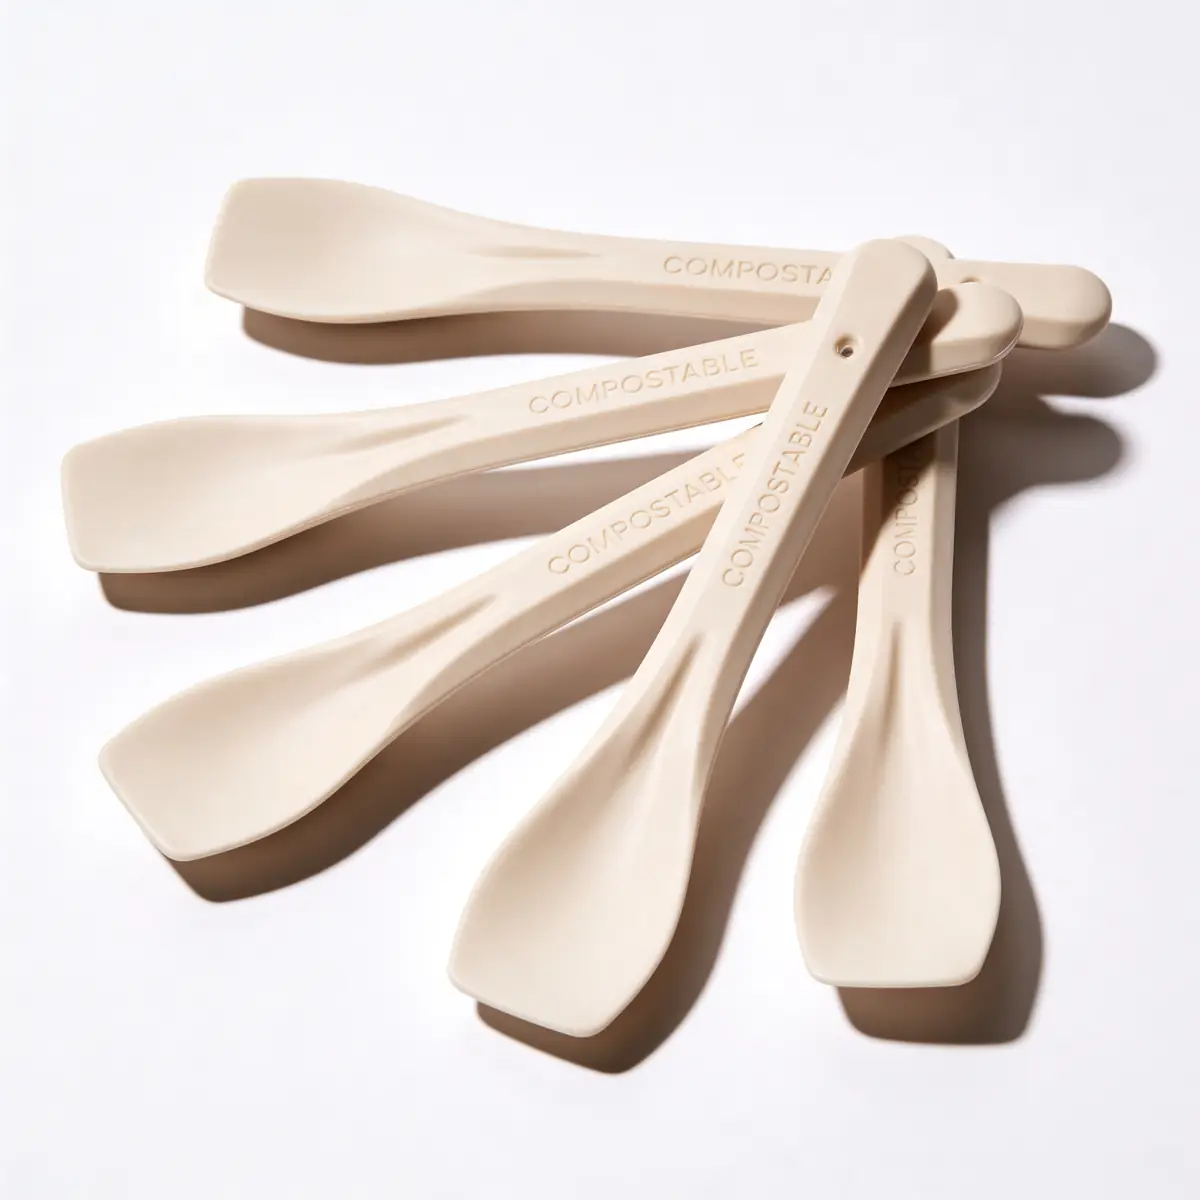
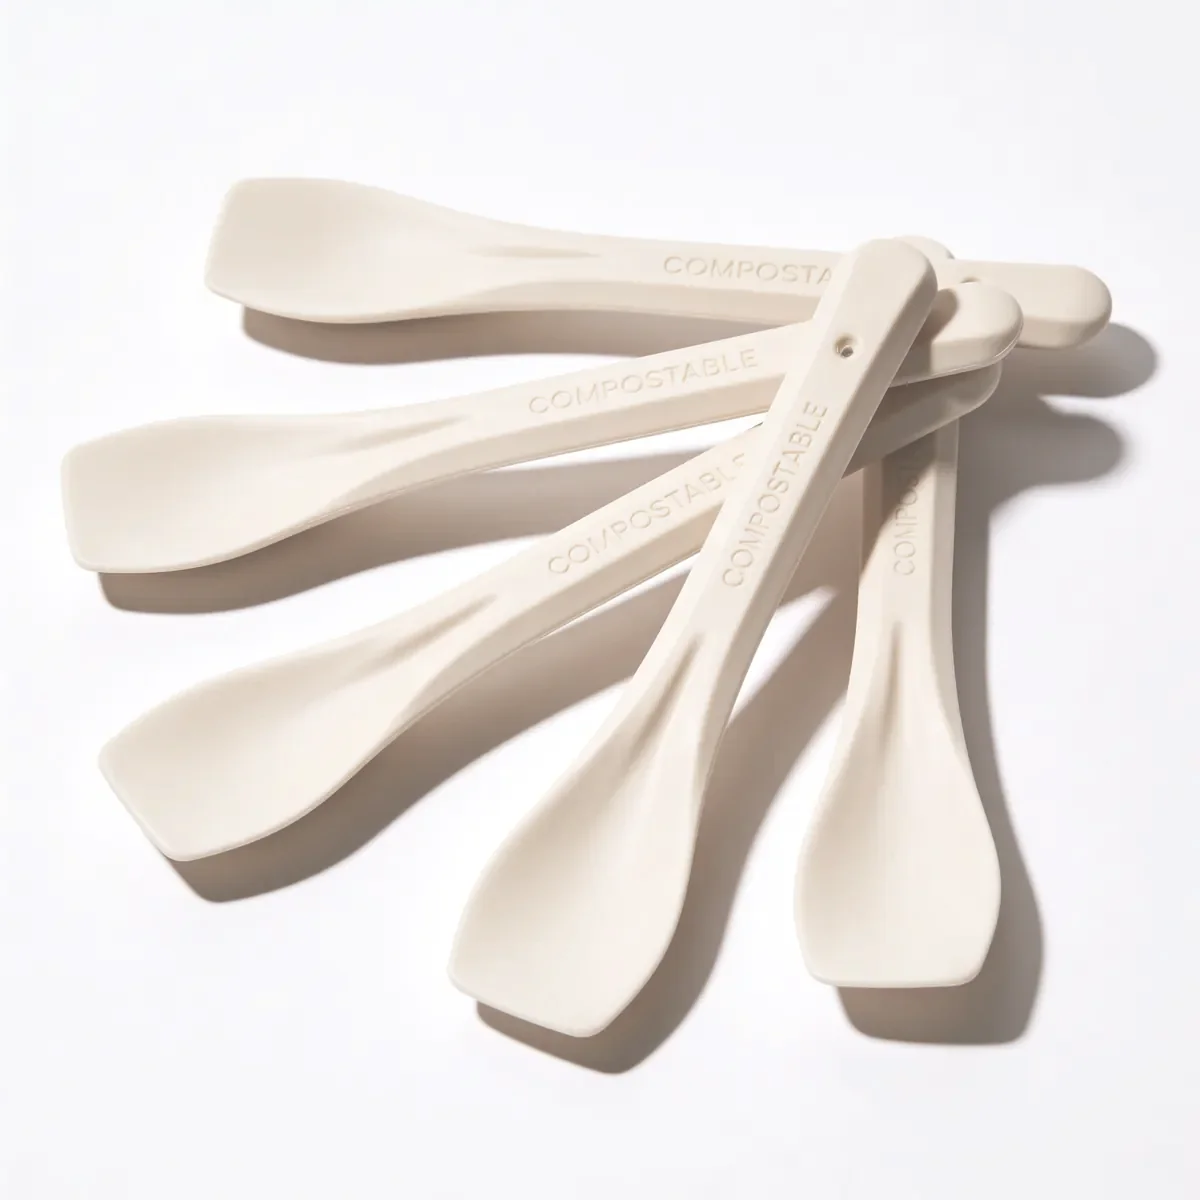
ok

Changed region(s): [[0.0617, 0.2158, 0.9867, 0.8942], [0.185, 0.2467, 0.6475, 0.3083]]

diff --git a/index.html b/index.html
@@ -33,10 +33,7 @@
   <link rel="alternate" hreflang="x-default" href="https://www.badiani1932.com/" />
 
   <!-- Preload critical font -->
-  <link rel="preload" href="assets/fonts/SuperGroteskB-CdMed.woff" as="font" type="font/woff" crossorigin />
-  <!-- Preload Paolo + Worldwide images (prevents content-visibility + lazy double-delay) -->
-  <link rel="preload" href="assets/paolo%20pomposi.webp" as="image" type="image/webp" />
-  <link rel="preload" href="assets/worldwide.webp" as="image" type="image/webp" />
+  <link rel="preload" href="assets/fonts/SuperGroteskB-CdMed.woff2" as="font" type="font/woff2" crossorigin />
   <!-- Preload critical above-the-fold images -->
   <link rel="preload" as="image" href="assets/images/eventi/evento-esterno-2.webp" />
   <link rel="preload" as="image" href="assets/images/categories/vasche.webp" />
@@ -585,6 +582,9 @@
     .world-card--metrics .world-card__title{
       color:var(--badiani-blue);
       max-width:55%;
+      overflow-wrap:normal;
+      word-break:normal;
+      hyphens:none;
     }
     .world-card__desc{
       font-size:clamp(14px, 1.2vw, 17px);
@@ -775,7 +775,7 @@
       .world-card--metrics{ border-right:none; border-bottom:1px solid rgba(30,57,141,0.08); overflow:hidden; }
       .world-card__paolo{ height:126%; right:0; max-width:70%; }
       /* Full width text when cards are stacked */
-      .world-card--metrics .world-card__title{ max-width:100%; font-size:clamp(36px, 10.8vw, 168px); overflow-wrap:break-word; word-break:break-word; }
+      .world-card--metrics .world-card__title{ max-width:100%; }
       .world-card__desc{ max-width:100%; }
       .stats{ max-width:100%; grid-template-columns:1fr; }
       .stat:nth-child(odd){ border-right:none; }
@@ -1048,12 +1048,7 @@
       }
     }
 
-    /* Performance: content-visibility for off-screen sections */
-    .story-section,
-    .world-section {
-      content-visibility: auto;
-      contain-intrinsic-size: auto 600px;
-    }
+    /* content-visibility rimossa: causava pop-in visibile durante scroll */
     /* home-form-section esclusa per permettere overflow di Mercury */
 
     /* Reduced motion for users who prefer it */
@@ -1118,7 +1113,7 @@
   <section class="choice-section" data-i18n-attr="aria-label:home.choice.label">
     <div class="choice-grid">
       <a class="choice-card" href="eventi/" data-i18n-attr="aria-label:home.choice.eventi.aria">
-        <img class="choice-card__img" src="assets/images/migrated/eventi/foto%20eventi/Steve%20Madden%20Pitti/STEVE4.webp" alt="Eventi" loading="lazy" decoding="async" data-i18n-attr="alt:home.card.eventi.title" />
+        <img class="choice-card__img" src="assets/images/migrated/eventi/foto%20eventi/Steve%20Madden%20Pitti/STEVE4.webp" alt="Eventi" loading="lazy" decoding="async" width="3966" height="5949" data-i18n-attr="alt:home.card.eventi.title" />
         <div class="choice-card__overlay">
           <div class="choice-card__heading-group">
             <span class="choice-card__label" data-i18n="home.choice.eventi.label">Tipologie</span>
@@ -1170,7 +1165,7 @@
     <div class="world-grid">
       <!-- LEFT: Metrics -->
       <div class="world-card world-card--metrics">
-        <img class="world-card__paolo" src="assets/paolo%20pomposi.webp" alt="Paolo Pomposi" loading="eager" decoding="async" fetchpriority="high" width="1000" height="1405" />
+        <img class="world-card__paolo" src="assets/paolo%20pomposi.webp" alt="Paolo Pomposi" loading="lazy" decoding="async" width="1000" height="1405" />
         <span class="world-card__label" data-i18n="heritage.stat.quality">Qualità Italiana</span>
         <h2 class="world-card__title title-accent" data-i18n="heritage.title">BADIANI NEL MONDO VUOL DIRE GELATO</h2>
         <p class="world-card__desc" data-i18n-html="heritage.intro">
@@ -1203,7 +1198,7 @@
         </h2>
         <div class="world-card__gelato-wrap">
           <span class="world-card__gelato-big">Gelato</span>
-          <img class="world-card__map" src="assets/worldwide.webp" alt="Badiani nel mondo" loading="eager" decoding="async" fetchpriority="high" width="2236" height="1344" />
+          <img class="world-card__map" src="assets/worldwide.webp" alt="Badiani nel mondo" loading="lazy" decoding="async" width="2236" height="1344" />
         </div>
       </div>
     </div>
@@ -2067,21 +2062,21 @@
     /* --- PAOLO parallax orizzontale (dx → sx) --- */
     var paolo = document.querySelector('.world-card__paolo');
     var paoloCard = paolo ? paolo.closest('.world-card--metrics') : null;
-    if(paolo) paolo.style.transition = 'transform 0.1s linear';
+    if(paolo) paolo.style.willChange = 'transform';
 
     /* --- WORLDWIDE MAP parallax dal basso --- */
     var worldMap = document.querySelector('.world-card__map');
     var worldCard = worldMap ? worldMap.closest('.world-card--timeline') : null;
-    if(worldMap){ worldMap.style.transition = 'transform 0.1s linear'; worldMap.style.willChange = 'transform'; }
+    if(worldMap) worldMap.style.willChange = 'transform';
 
     /* --- GELATO big text parallax dall'alto --- */
     var gelatoBig = document.querySelector('.world-card__gelato-big');
-    if(gelatoBig){ gelatoBig.style.transition = 'transform 0.1s linear'; gelatoBig.style.willChange = 'transform'; }
+    if(gelatoBig) gelatoBig.style.willChange = 'transform';
 
     /* --- MERCURY parallax dal basso (sale, si sposta a sx, ruota leggermente) --- */
     var mercury = document.querySelector('.home-form-section__mercury');
     var mercurySection = mercury ? mercury.closest('.home-form-section') : null;
-    if(mercury){ mercury.style.transition = 'transform 0.1s linear'; mercury.style.willChange = 'transform'; }
+    if(mercury) mercury.style.willChange = 'transform';
 
     if(!gelatoImg && !paolo && !worldMap && !mercury) return;
 
@@ -2167,6 +2162,63 @@
     window.addEventListener('resize', fit);
   })();
   </script>
+
+  <!-- Auto-fit heritage title: scale font so widest word fits container -->
+  <script>
+  (function(){
+    var title = document.querySelector('.world-card--metrics .world-card__title');
+    if(!title) return;
+
+    /* Hidden probe element to measure single-word widths */
+    var probe = document.createElement('span');
+    probe.style.cssText = 'position:absolute;visibility:hidden;white-space:nowrap;pointer-events:none;';
+    document.body.appendChild(probe);
+
+    function fitTitle(){
+      /* Copy font styles to probe */
+      var cs = getComputedStyle(title);
+      probe.style.fontFamily = cs.fontFamily;
+      probe.style.fontWeight = cs.fontWeight;
+      probe.style.textTransform = cs.textTransform;
+      probe.style.letterSpacing = cs.letterSpacing;
+
+      /* Available width = title's own max-width (set by CSS: 55% of card) */
+      var containerW = title.clientWidth || title.offsetWidth;
+      /* If title has no width yet, compute from card */
+      if(!containerW){
+        var card = title.closest('.world-card--metrics');
+        if(!card) return;
+        var cardCS = getComputedStyle(card);
+        var cardW = card.clientWidth - parseFloat(cardCS.paddingLeft) - parseFloat(cardCS.paddingRight);
+        containerW = window.innerWidth <= 900 ? cardW : cardW * 0.55;
+      }
+
+      /* Find the widest word in the title text */
+      var words = title.textContent.trim().split(/\s+/);
+      var maxFs = 168;
+      var bestFs = maxFs;
+
+      for(var fs = maxFs; fs >= 20; fs--){
+        probe.style.fontSize = fs + 'px';
+        var fits = true;
+        for(var i = 0; i < words.length; i++){
+          probe.textContent = words[i];
+          if(probe.offsetWidth > containerW){ fits = false; break; }
+        }
+        if(fits){ bestFs = fs; break; }
+      }
+
+      title.style.fontSize = bestFs < maxFs ? bestFs + 'px' : '';
+    }
+
+    fitTitle();
+    window.addEventListener('resize', fitTitle);
+    /* Re-fit on language change */
+    var sel = document.getElementById('langSelect');
+    if(sel) sel.addEventListener('change', function(){ setTimeout(fitTitle, 50); });
+  })();
+  </script>
+
   <script>
   (function(){
     function forcePlay(){

diff --git a/b2b/index.html b/b2b/index.html
@@ -15,6 +15,7 @@
   <meta property="og:image" content="https://www.badiani1932.com/assets/images/branding/logo.webp" />
   <meta property="og:url" content="https://www.badiani1932.com/b2b/" />
   <meta property="og:site_name" content="Badiani 1932" />
+  <meta property="og:locale" content="it_IT" />
   <meta name="twitter:card" content="summary_large_image" />
   <meta name="twitter:title" content="B2B — Badiani 1932" />
   <meta name="twitter:description" content="Gelato artigianale per hotel, ristoranti e catering. Catalogo B2B Badiani 1932." />
@@ -24,7 +25,7 @@
   <link rel="alternate" hreflang="fr" href="https://www.badiani1932.com/b2b/" />
   <link rel="alternate" hreflang="es" href="https://www.badiani1932.com/b2b/" />
   <link rel="alternate" hreflang="x-default" href="https://www.badiani1932.com/b2b/" />
-  <link rel="preload" href="../assets/fonts/SuperGroteskB-CdMed.woff" as="font" type="font/woff" crossorigin />
+  <link rel="preload" href="../assets/fonts/SuperGroteskB-CdMed.woff2" as="font" type="font/woff2" crossorigin />
   <link rel="stylesheet" href="../assets/badiani-common.css" />
   <script type="application/ld+json">
   {
@@ -2363,15 +2364,15 @@
     }
     .accessori-media{
       width:100%;
-      aspect-ratio:3 / 4;
+      aspect-ratio:1 / 1;
       background:transparent;
       overflow:hidden;
       position:relative;
     }
     .accessori-card.is-expanded .accessori-media{
-      flex:1 1 0;
-      min-height:0;
-      aspect-ratio:auto;
+      flex:1 1 auto;
+      min-height:280px;
+      aspect-ratio:1 / 1;
       width:100%;
     }
     .accessori-media img{
@@ -2379,6 +2380,9 @@
       height:100%;
       object-fit:cover;
       display:block;
+    }
+    .accessori-card.is-expanded .accessori-media img{
+      object-fit:contain;
     }
     .accessori-media .card-zoom{
       display:none;
@@ -2542,16 +2546,16 @@
         grid-row:span 1;
       }
       .accessori-card.is-expanded .accessori-media{
-        flex:1 1 0;
-        aspect-ratio:auto;
+        flex:1 1 auto;
+        aspect-ratio:1 / 1;
         max-height:none;
-        min-height:0;
+        min-height:200px;
         width:100%;
       }
       .accessori-card.is-expanded .accessori-media img{
         width:100%;
         height:100%;
-        object-fit:cover;
+        object-fit:contain;
       }
       .accessori-card.is-expanded .accessori-body{
         flex:0 0 auto;
@@ -6009,9 +6013,9 @@
           title: 'Accessori',
           columns: ['Prodotto', 'Descrizione', 'Quantità'],
           rows: [
-            ['Tovagliolini stampati', 'Salviettine logate Badiani 17x17', '40 pacchetti'],
-            ['Palettine', 'Palettine gelato', '1 Kg'],
             ['Cialdine', 'Cialdine logate Badiani', '1200 pz'],
+            ['Palettine', 'Palettine gelato', '1 Kg'],
+            ['Tovagliolini stampati', 'Salviettine logate Badiani 17x17', '40 pacchetti'],
             ['Paletta', 'Paletta per servizio gelato', 'su richiesta'],
             ['Contenitore 1', 'Contenitore servizio piccolo', 'su richiesta'],
             ['Contenitore 2', 'Contenitore servizio grande', 'su richiesta']
@@ -6903,7 +6907,7 @@
 
       const ACCESSORI_HERO_IMAGE = '../assets/images/accessori/hero accessori.webp';
 
-      const ACCESSORI_ZONE_ORDER = ['Tovagliolini stampati', 'Palettine', 'Cialdine', 'Paletta', 'Contenitore 1', 'Contenitore 2'];
+      const ACCESSORI_ZONE_ORDER = ['Cialdine', 'Palettine', 'Tovagliolini stampati', 'Paletta', 'Contenitore 1', 'Contenitore 2'];
 
       const ACCESSORI_SHORT_NAMES = {
         'Tovagliolini stampati': 'Fazzoletti',

diff --git a/cookie-policy.html b/cookie-policy.html
@@ -14,6 +14,8 @@
   <meta property="og:description" content="Cookie Policy di Badiani 1932. Informazioni sui cookie tecnici utilizzati dal nostro sito web." />
   <meta property="og:url" content="https://www.badiani1932.com/cookie-policy.html" />
   <meta property="og:image" content="https://www.badiani1932.com/assets/images/branding/logo.webp" />
+  <meta property="og:site_name" content="Badiani 1932" />
+  <meta property="og:locale" content="it_IT" />
   <meta name="twitter:card" content="summary" />
   <meta name="twitter:title" content="Cookie Policy — Badiani 1932" />
   <meta name="twitter:description" content="Cookie Policy di Badiani 1932." />
@@ -23,7 +25,7 @@
   <link rel="alternate" hreflang="fr" href="https://www.badiani1932.com/cookie-policy.html" />
   <link rel="alternate" hreflang="es" href="https://www.badiani1932.com/cookie-policy.html" />
   <link rel="alternate" hreflang="x-default" href="https://www.badiani1932.com/cookie-policy.html" />
-  <link rel="preload" href="./assets/fonts/SuperGroteskB-CdMed.woff" as="font" type="font/woff" crossorigin />
+  <link rel="preload" href="./assets/fonts/SuperGroteskB-CdMed.woff2" as="font" type="font/woff2" crossorigin />
   <link rel="stylesheet" href="./assets/badiani-common.css" />
   <script type="application/ld+json">
   {
@@ -237,7 +239,7 @@
     <div class="footer-inner">
       <div class="footer-col footer-brand">
         <a href="./" class="footer-logo-link">
-          <img src="assets/images/branding/logo-white.png" alt="Badiani 1932" width="1665" height="643" />
+          <img src="assets/images/branding/logo-white.webp" alt="Badiani 1932" width="1665" height="643" />
         </a>
         <p class="footer-tagline">Gelato artigianale dal 1932. Firenze.</p>
       </div>

diff --git a/privacy.html b/privacy.html
@@ -14,6 +14,8 @@
   <meta property="og:description" content="Informativa sulla privacy di Badiani 1932. Scopri come raccogliamo, utilizziamo e proteggiamo i tuoi dati personali." />
   <meta property="og:url" content="https://www.badiani1932.com/privacy.html" />
   <meta property="og:image" content="https://www.badiani1932.com/assets/images/branding/logo.webp" />
+  <meta property="og:site_name" content="Badiani 1932" />
+  <meta property="og:locale" content="it_IT" />
   <meta name="twitter:card" content="summary" />
   <meta name="twitter:title" content="Privacy Policy — Badiani 1932" />
   <meta name="twitter:description" content="Informativa sulla privacy di Badiani 1932." />
@@ -23,7 +25,7 @@
   <link rel="alternate" hreflang="fr" href="https://www.badiani1932.com/privacy.html" />
   <link rel="alternate" hreflang="es" href="https://www.badiani1932.com/privacy.html" />
   <link rel="alternate" hreflang="x-default" href="https://www.badiani1932.com/privacy.html" />
-  <link rel="preload" href="./assets/fonts/SuperGroteskB-CdMed.woff" as="font" type="font/woff" crossorigin />
+  <link rel="preload" href="./assets/fonts/SuperGroteskB-CdMed.woff2" as="font" type="font/woff2" crossorigin />
   <link rel="stylesheet" href="./assets/badiani-common.css" />
   <script type="application/ld+json">
   {
@@ -270,7 +272,7 @@
     <div class="footer-inner">
       <div class="footer-col footer-brand">
         <a href="./" class="footer-logo-link">
-          <img src="assets/images/branding/logo-white.png" alt="Badiani 1932" width="1665" height="643" />
+          <img src="assets/images/branding/logo-white.webp" alt="Badiani 1932" width="1665" height="643" />
         </a>
         <p class="footer-tagline">Gelato artigianale dal 1932. Firenze.</p>
       </div>

diff --git a/magazine/index.html b/magazine/index.html
@@ -15,6 +15,7 @@
   <meta property="og:image" content="https://www.badiani1932.com/assets/images/branding/logo.webp" />
   <meta property="og:url" content="https://www.badiani1932.com/magazine/" />
   <meta property="og:site_name" content="Badiani 1932" />
+  <meta property="og:locale" content="it_IT" />
   <meta name="twitter:card" content="summary_large_image" />
   <meta name="twitter:title" content="Magazine — Badiani 1932" />
   <meta name="twitter:description" content="Rassegna stampa: cosa dicono i media del gelato artigianale Badiani dal 1932." />
@@ -24,7 +25,7 @@
   <link rel="alternate" hreflang="fr" href="https://www.badiani1932.com/magazine/" />
   <link rel="alternate" hreflang="es" href="https://www.badiani1932.com/magazine/" />
   <link rel="alternate" hreflang="x-default" href="https://www.badiani1932.com/magazine/" />
-  <link rel="preload" href="../assets/fonts/SuperGroteskB-CdMed.woff" as="font" type="font/woff" crossorigin />
+  <link rel="preload" href="../assets/fonts/SuperGroteskB-CdMed.woff2" as="font" type="font/woff2" crossorigin />
   <link rel="stylesheet" href="../assets/badiani-common.css" />
   <link rel="preload" as="image" href="../assets/images/branding/heroparlanodinoi.jpg" />
   <script type="application/ld+json">
@@ -906,7 +907,7 @@
   <footer class="site-footer">
     <div class="footer-inner">
       <div class="footer-col footer-brand">
-        <a href="../" class="footer-logo-link"><img src="../assets/images/branding/logo-white.png" alt="Badiani 1932" width="1665" height="643" /></a>
+        <a href="../" class="footer-logo-link"><img src="../assets/images/branding/logo-white.webp" alt="Badiani 1932" width="1665" height="643" /></a>
         <p class="footer-tagline">Gelato artigianale dal 1932. Firenze.</p>
       </div>
       <div class="footer-col"><h3 data-i18n="footer.nav">Navigazione</h3><ul><li><a href="../" data-i18n="footer.home">Home</a></li><li><a href="../eventi/" data-i18n="footer.eventi">Eventi</a></li><li><a href="../b2b/" data-i18n="footer.b2b">B2B</a></li><li><a href="./" data-i18n="footer.magazine">Dicono di Noi</a></li></ul></div>

diff --git a/eventi/index.html b/eventi/index.html
@@ -15,6 +15,7 @@
   <meta property="og:image" content="https://www.badiani1932.com/assets/images/branding/logo.webp" />
   <meta property="og:url" content="https://www.badiani1932.com/eventi/" />
   <meta property="og:site_name" content="Badiani 1932" />
+  <meta property="og:locale" content="it_IT" />
   <meta name="twitter:card" content="summary_large_image" />
   <meta name="twitter:title" content="Eventi — Badiani 1932" />
   <meta name="twitter:description" content="Feste private e eventi su misura con gelato artigianale Badiani dal 1932." />
@@ -24,7 +25,7 @@
   <link rel="alternate" hreflang="fr" href="https://www.badiani1932.com/eventi/" />
   <link rel="alternate" hreflang="es" href="https://www.badiani1932.com/eventi/" />
   <link rel="alternate" hreflang="x-default" href="https://www.badiani1932.com/eventi/" />
-  <link rel="preload" href="../assets/fonts/SuperGroteskB-CdMed.woff" as="font" type="font/woff" crossorigin />
+  <link rel="preload" href="../assets/fonts/SuperGroteskB-CdMed.woff2" as="font" type="font/woff2" crossorigin />
   <link rel="stylesheet" href="../assets/badiani-common.css" />
   <script type="application/ld+json">
   {